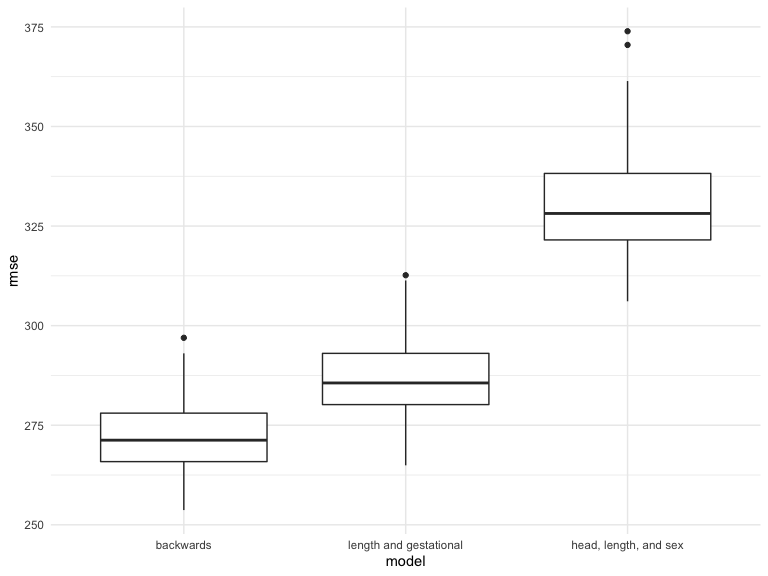
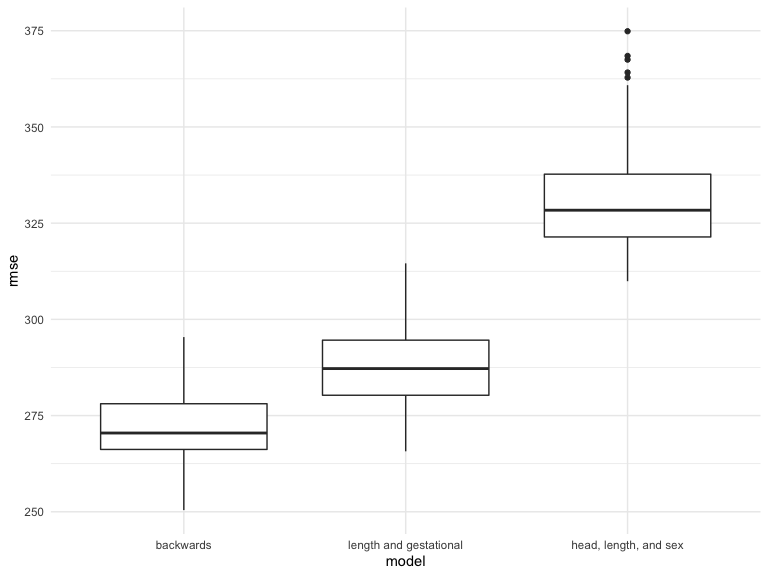
almost finish

diff --git a/p8105_hw6_hc3212.md b/p8105_hw6_hc3212.md
@@ -168,7 +168,7 @@ fit_df =
   mutate(
     final_mod = map(.x = train, ~stepAIC(lm(bwt ~ ., data = .x), direction = "both", trace = FALSE)),
     len_mod = map(.x = train, ~lm(bwt ~ blength + gaweeks, data = .x)),
-    hea_mod = map(.x = train, ~lm(bwt ~ bhead + blength + babysex, data = .x))
+    hea_mod = map(.x = train, ~lm(bwt ~ bhead + blength + babysex + bhead * blength + bhead * babysex + blength * babysex + bhead * blength * babysex, data = .x))
   ) %>% 
   mutate(
     rmsefinal = map2_dbl(.x = final_mod,.y = test, ~rmse(model = .x, data = .y)),
@@ -176,6 +176,8 @@ fit_df =
     rmsehea = map2_dbl(.x = hea_mod,.y = test, ~rmse(model = .x, data = .y))
   )
 ```
+
+Draw the plot
 
 ``` r
 fit_df %>% 
@@ -218,23 +220,91 @@ weather_boot =
   bootstrap(5000, id = "strap_number")%>% 
   mutate(
     models = map(.x = strap, ~lm(tmax ~ tmin, data = .x)),
-    results = map(models, broom::tidy)
+    results = map(models, broom::tidy),
+    a = map(models, broom::glance)
   ) %>% 
-  dplyr::select(strap_number, results) %>% 
-  unnest(results)
+  dplyr::select(strap_number, results, a) %>% 
+  unnest(results, a)
 ```
 
-The boostrap is helpful when you’d like to perform inference for a
-parameter / value / summary that doesn’t have an easy-to-write-down
-distribution in the usual repeated sampling framework. We’ll focus on a
-simple linear regression with tmax as the response and tmin as the
-predictor, and are interested in the distribution of two quantities
-estimated from these data:
+Calculate *l**o**g*(*β*<sub>0</sub>\**β*<sub>1</sub>)̂
 
-r̂2 log(β̂0∗β̂1) Use 5000 bootstrap samples and, for each bootstrap sample,
-produce estimates of these two quantities. Plot the distribution of your
-estimates, and describe these in words. Using the 5000 bootstrap
-estimates, identify the 2.5% and 97.5% quantiles to provide a 95%
-confidence interval for r̂2 and log(β̂0∗β̂1) . Note: broom::glance() is
-helpful for extracting r̂2 from a fitted regression, and broom::tidy()
-(with some additional wrangling) should help in computing log(β̂0∗β̂1) .
+``` r
+callog =
+  weather_boot %>% 
+  dplyr::select(strap_number, term, estimate) %>% 
+  pivot_wider(names_from = term,
+              values_from = estimate) %>% 
+  rename(intercept ="(Intercept)") %>% 
+  mutate(logBB = log(intercept*tmin))
+```
+
+Plot the distribution of *l**o**g*(*β*<sub>0</sub>\**β*<sub>1</sub>)
+
+``` r
+callog %>% 
+  ggplot(aes(x = logBB)) +
+  geom_density() + 
+  xlab("log(B0 * B1)") +
+  ggtitle("Distribution of log(B0 * B1)")
+```
+
+<img src="p8105_hw6_hc3212_files/figure-gfm/densi_BB-1.png" width="90%" />
+
+Calculate the 95% CI
+
+``` r
+callog %>% 
+  summarize(
+    ci_lower = quantile(logBB, 0.025),
+    ci_upper = quantile(logBB,0.975)
+  ) %>% 
+  knitr::kable()
+```
+
+| ci_lower | ci_upper |
+|---------:|---------:|
+|  1.96548 |  2.05841 |
+
+Calculate *r*<sup>2</sup>
+
+``` r
+r_square =
+  weather_boot %>% 
+  filter(term == "tmin") %>% 
+  dplyr::select(r.squared) 
+```
+
+Plot the distribution of *r*<sup>2</sup>
+
+``` r
+r_square %>% 
+  ggplot(aes(x = r.squared)) +
+  geom_density() + 
+  xlab("r square") +
+  ggtitle("Distribution of r square")
+```
+
+<img src="p8105_hw6_hc3212_files/figure-gfm/densi_r-1.png" width="90%" />
+
+Calculate the 95% CI
+
+``` r
+r_square %>% 
+  summarize(
+    ci_lower = quantile(r.squared, 0.025),
+    ci_upper = quantile(r.squared,0.975)
+  ) %>% 
+  knitr::kable()
+```
+
+|  ci_lower |  ci_upper |
+|----------:|----------:|
+| 0.8939828 | 0.9270625 |
+
+Plot the distribution of your estimates, and describe these in words.
+Using the 5000 bootstrap estimates, identify the 2.5% and 97.5%
+quantiles to provide a 95% confidence interval for r̂2 and log(β̂0∗β̂1) .
+Note: broom::glance() is helpful for extracting r̂2 from a fitted
+regression, and broom::tidy() (with some additional wrangling) should
+help in computing log(β̂0∗β̂1) .
